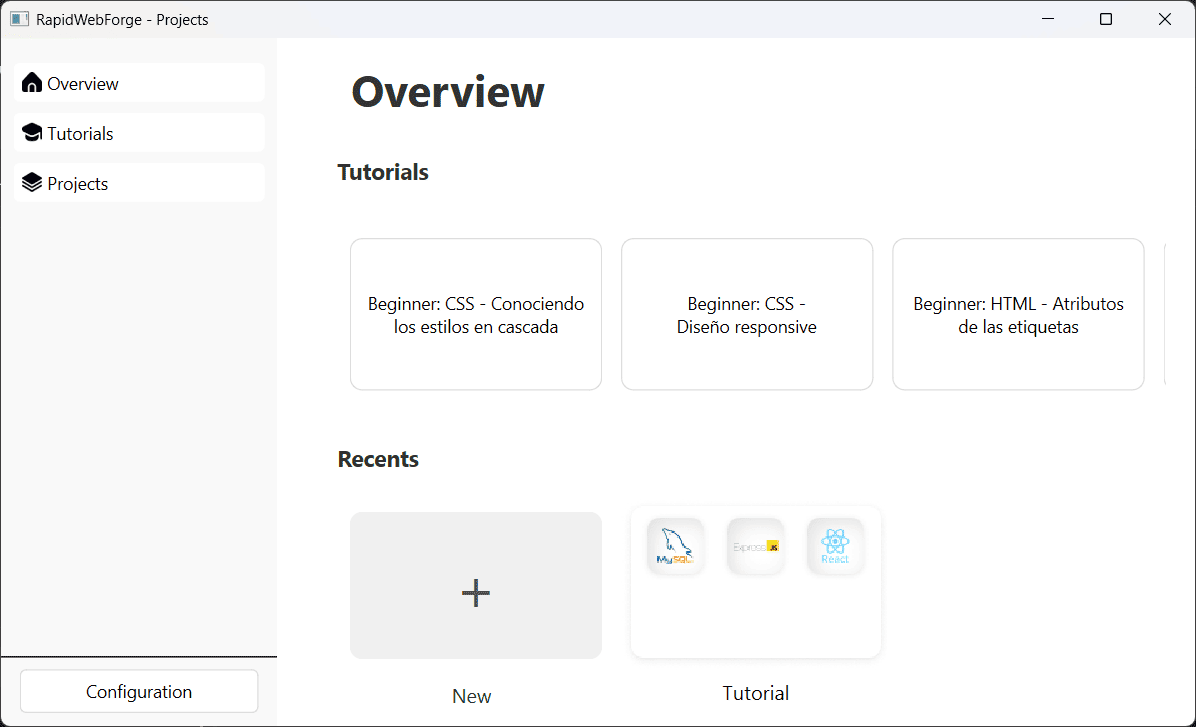
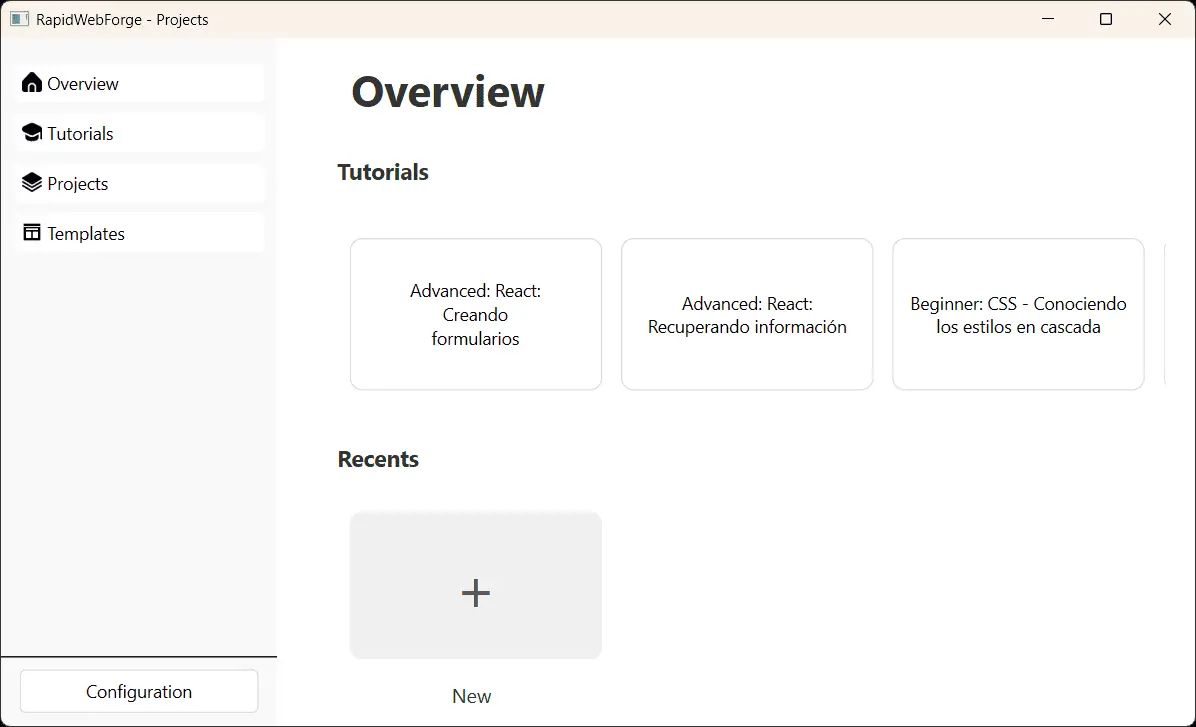
feat: demos & update images

diff --git a/docs/demostracion/crud.md b/docs/demostracion/crud.md
@@ -1,0 +1,146 @@
+---
+sidebar_position: 1
+---
+
+# Plantilla CRUD
+
+RapidWebForge incluye una plantilla de tipo **CRUD** (Create, Read, Update, Delete) que permite crear rápidamente un proyecto funcional de gestión de datos con backend, frontend y base de datos integrados.
+
+---
+
+## 🚀 Crear un proyecto CRUD
+
+Sigue los pasos a continuación para generar un proyecto usando esta plantilla:
+
+1. Abre la aplicación **RapidWebForge**.
+
+   ![Vista general de RapidWebForge](../../src/assets/img/webp/overview.webp)
+
+2. Dirígete a la sección **Templates**.
+
+   ![Templates de RapidWebForge](../../src/assets/img/webp/templates.webp)
+
+3. Haz clic en la opción **CRUD** para iniciar la creación del proyecto.
+
+4. Completa los datos requeridos en el formulario de creación.
+
+---
+
+## 🧩 Estructura del proyecto generado
+
+La plantilla CRUD genera por defecto un backend funcional con base de datos y un frontend con vistas básicas.
+
+### 🔙 Backend
+
+El backend incluye una tabla llamada **Products**, que contiene los siguientes campos:
+
+- `name`: Nombre del producto  
+- `description`: Descripción del producto  
+- `amount`: Cantidad disponible
+
+   ![Backend CRUD](../../src/assets/img/webp/crud-backend.webp)
+
+---
+
+### 🖥 Frontend
+
+Se crean automáticamente tres vistas funcionales:
+
+1. **Home**  
+   Muestra una tabla con todos los productos registrados.
+
+   ![Frontend CRUD Home](../../src/assets/img/webp/crud-frontend-home.webp)
+
+2. **Create**  
+   Permite crear un nuevo producto a través de un formulario.
+
+   ![Frontend CRUD Create](../../src/assets/img/webp/crud-frontend-create.webp)
+
+3. **Update**  
+   Permite editar los datos de un producto existente.
+
+   ![Frontend CRUD Update](../../src/assets/img/webp/crud-frontend-update.webp)
+
+---
+
+## ⚙ Desplegar el proyecto CRUD
+
+Para ejecutar el proyecto CRUD de forma local:
+
+1. Accede al menú **Project** en la barra superior.
+
+   ![Menú RapidWebForge](../../src/assets/img/webp/menu-complete.webp)
+
+2. Selecciona la opción **Deploy**.
+
+   ![Deploy RapidWebForge](../../src/assets/img/webp/menu-deploy.webp)
+
+Esto desplegará la aplicación localmente utilizando **Nginx** con una configuración predeterminada.  
+Cuando finalice el proceso, se mostrará una notificación de éxito.
+
+Abre un navegador y visita:  
+👉 [`http://localhost`](http://localhost)
+
+   ![Vista inicial CRUD](../../src/assets/img/webp/crud-home-init.webp)
+
+La vista inicial muestra una tabla vacía. Para agregar productos:
+
+---
+
+## ➕ Crear un nuevo producto
+
+1. Haz clic en el botón **Create** para ir a la ruta `/create`.
+
+   ![Create vista inicial](../../src/assets/img/webp/crud-create-init.webp)
+
+2. Completa los campos del formulario y haz clic en **Create**.
+
+   ![Formulario Create](../../src/assets/img/webp/crud-create-send.webp)
+
+Se mostrará un mensaje de éxito y el formulario se reiniciará.
+
+---
+
+## 📄 Ver y editar productos
+
+1. Regresa a la ruta raíz `/` y recarga la página.
+
+   ![Tabla con datos](../../src/assets/img/webp/crud-home-data.webp)
+
+2. Para editar un producto, haz clic en **Edit**. Serás redirigido a `/update`.
+
+   ![Vista de edición](../../src/assets/img/webp/crud-update.webp)
+
+3. Modifica los datos necesarios y haz clic en **Update**.  
+   Se mostrará una alerta de confirmación, y los cambios se reflejarán en la tabla.
+
+---
+
+## ❌ Eliminar productos
+
+En la tabla de productos se mostrará un botón **Delete** para cada registro.  
+Haz clic en él para eliminar el producto de la base de datos.  
+Se actualizará la tabla automáticamente.
+
+---
+
+## 🧪 Verificación con MySQL Workbench
+
+Puedes comprobar los datos registrados directamente desde **MySQL Workbench**.
+
+   ![MySQL Workbench](../../src/assets/img/webp/prove-workbench.webp)
+
+Verás la tabla `Products` con los registros creados desde la interfaz CRUD de RapidWebForge.
+
+---
+
+## ✅ Conclusión
+
+La plantilla CRUD de RapidWebForge te permite crear proyectos listos para gestionar datos con:
+
+- Backend en **Express**
+- Base de datos en **MySQL**
+- Frontend en **React**
+- Despliegue local mediante **Nginx**
+
+Ideal para pruebas rápidas, aprendizaje o prototipos funcionales sin escribir código manualmente.

diff --git a/docs/instalacion/vista-general.md b/docs/instalacion/vista-general.md
@@ -15,6 +15,7 @@ La barra lateral izquierda de RapidWebForge se divide en cuatro secciones:
 - **Overview**: Aquí se pueden acceder algunos tutoriales de RapidWebForge y a los proyectos más recientes.
 - **Tutorials**: Aquí se pueden acceder a los tutoriales de RapidWebForge.
 - **Projects**: Aquí se pueden acceder a los proyectos de RapidWebForge.
+- **Templates**: Aquí se pueden crear proyectos de RapidWebForge con plantillas establecidas.
 - **Configuración**: Aquí se pueden acceder a la configuración de las rutas de los software empleados por RapidWebForge.
 
 ## Configuración
@@ -25,12 +26,22 @@ El primer paso para utilizar RapidWebForge es configurar las rutas de los softwa
 
 ## Proyectos
 
-En la sección **Proyectos** se pueden crear, editar y eliminar proyectos.
+En la sección **Projects** se pueden crear, editar y eliminar proyectos.
 
 ![Proyectos de RapidWebForge](../../src/assets/img/webp/projects.webp)
 
 ## Tutoriales
 
-En la sección **Tutoriales** se pueden acceder a los tutoriales de RapidWebForge.
+En la sección **Tutorials** se pueden acceder a los tutoriales de RapidWebForge.
 
 ![Tutoriales de RapidWebForge](../../src/assets/img/webp/tutorials.webp)
+
+## Plantillas
+
+En la sección **Templates** se pueden acceder a los tutoriales de RapidWebForge.
+
+![Tutoriales de RapidWebForge](../../src/assets/img/webp/templates.webp)
+
+:::note
+ℹ **Nota:** Actualmente solo se cuenta con la plantilla CRUD.
+:::
